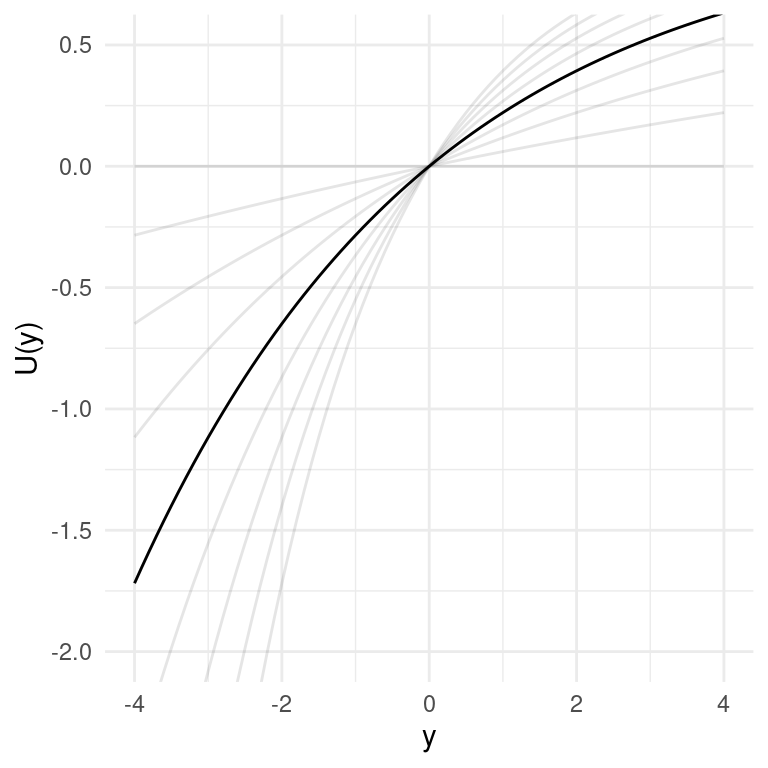
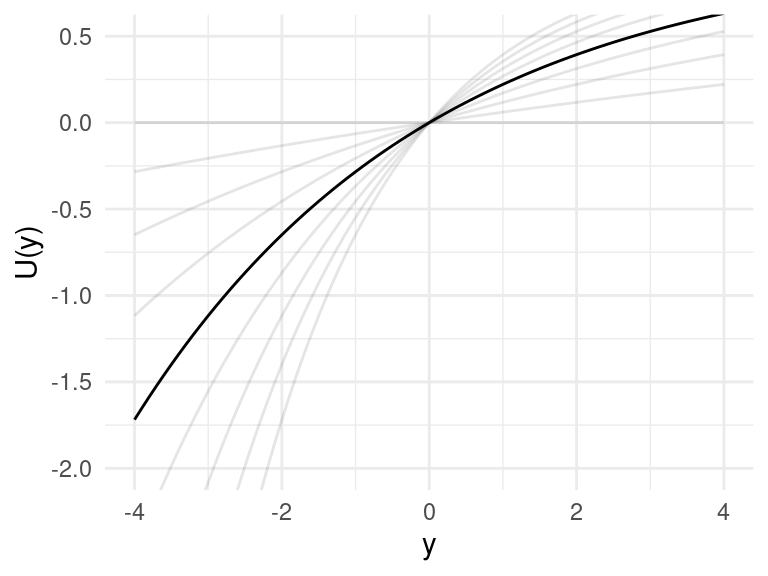
Fixing overlapping side notes.

diff --git a/docs/diagnose.html b/docs/diagnose.html
@@ -148,7 +148,7 @@ div.csl-indent {
 <li>Determining which programs to re-evaluate in order to incrementally improve the decision-making process for program selection (i), by updating information and adjusting funding allocations accordingly.</li>
 </ol>
 <p>By investigating and evaluating various decision-making policies within this framework, the study aims to contribute insights into how organizations can make more informed and effective funding decisions in the realm of Effective Altruism, with the ultimate goal of maximizing positive impact and optimizing resource allocation for charitable purposes.</p>
-<p>The problem is modeled as a sequence of decisions made at discrete intervals, given a finite set of programs with uncertain impact on a set of populations. The funder selects optimal programs to implement based on their beliefs about the counterfactual outcomes of these programs for their targeted populations, and decides what data to collect to update these beliefs for the next decision point. The environment and problem are intentionally kept simple to ensure tractability, with the understanding that further studies may revisit these assumptions iteratively.</p>
+<div class="page-columns page-full"><p>The problem is modeled as a sequence of decisions made at discrete intervals, given a finite set of programs with uncertain impact on a set of populations. The funder selects optimal programs to implement based on their beliefs about the counterfactual outcomes of these programs for their targeted populations, and decides what data to collect to update these beliefs for the next decision point. The environment and problem are intentionally kept simple to ensure tractability, with the understanding that further studies may revisit these assumptions iteratively.</p><div class="no-row-height column-margin column-container"><span class="">Focusing on epistemic uncertainty and ignoring moral uncertainty.</span></div></div>
 <div class="page-columns page-full"><p>The funder’s problem is modeled as a bandit problem, but without the restriction of only being able to evaluate implemented programs. Each program is assumed to target a particular population without any overlap, and the cost of implementation is held fixed and equal for all programs. There are no new programs entering the problem over time. The state of each program varies over time and is drawn from a hierarchical and stationary program hyperstate, which determines the data generating process for observed data when a program is evaluated.</p><div class="no-row-height column-margin column-container"><span class=""><em>State</em> here refers to the causal model determining outcome counterfactuals depending on whether a program is implemented or not. It is the data generating process from which we observed data when a program is evaluated.</span></div></div>
 <p>While the optimal method to select a program for implementation is a probabilistic one, taking into account the distribution of counterfactual quantities and any available prior information, I also consider the commonly used null hypothesis significance testing (NHST) approach.<a href="#fn1" class="footnote-ref" id="fnref1" role="doc-noteref"><sup>1</sup></a> However, my focus is not on comparing the probabilistic and NHST decision rules, but rather on the sequential nature of these decisions in the presence of heterogeneity in program effectiveness. I aim to examine the potential to improve welfare by enhancing the planning scheme used to select programs for re-evaluation, which I refer to as the <em>meta-problem</em>.</p>
 <p>My objective is not to identify the optimal policy, but rather to explore the potential for welfare improvement using alternative policies to those conventionally used. It’s important to note that I am simplifying these policies for tractability and not considering all their complexities and context-specific adjustments that expert decision-makers may introduce. Nevertheless, I believe this study captures the essence of how conventionally used policies may underperform in certain scenarios.</p>
@@ -190,18 +190,18 @@ div.csl-indent {
 </div>
 </div>
 <p>The funder is never aware of the true state of the world — the true counterfactual model of all programs’ effectiveness — but they are able to evaluate a program by collecting experimental data and updating their beliefs. I assume that the funder has an initial observation (data from an evaluation) for each program under consideration. This could be data from an earlier experiment or could represent the agent’s prior beliefs.</p>
-<div class="cell fig-cap-location-bottom page-columns page-full" data-hash="diagnose_cache/html/fig-utility-fig_effaf12ea5315783d3369e222a8c56e5">
+<div class="cell fig-cap-location-bottom page-columns page-full" data-hash="diagnose_cache/html/fig-utility-fig_8536ba9b123a1bf1d0a75cb7502ccbda">
 
 <div class="no-row-height column-margin column-container"><div class="cell-output-display">
 <div id="fig-utility-fig" class="quarto-figure quarto-figure-center anchored">
 <figure class="figure">
 <p><img src="diagnose_files/figure-html/fig-utility-fig-1.png" class="img-fluid figure-img" width="384"></p>
-<p></p><figcaption class="figure-caption">Figure&nbsp;2: The exponential utility function, <span class="math display">\[U(y;\alpha) = 1 - e^{- \alpha y},\]</span> where <span class="math inline">\(\alpha\)</span> represents the degree of risk aversion. In this study, we have <span class="math inline">\(\alpha = 0.25\)</span>.</figcaption><p></p>
+<p></p><figcaption class="figure-caption">Figure&nbsp;2: The exponential utility function, <span class="math inline">\(U(y;\alpha) = 1 - e^{- \alpha y},\)</span> where <span class="math inline">\(\alpha\)</span> represents the degree of risk aversion. In this study, we have <span class="math inline">\(\alpha = 0.25\)</span>.</figcaption><p></p>
 </figure>
 </div>
 </div></div></div>
 <p>Finally, in evaluating which program to implement the agent is assumed to be maximizing welfare measured using a <em>utility function</em>. The program outcomes mentioned above are in terms of an abstract quantity (e.g., income). A utility function means that there is a possibility of risk aversion and diminishing marginal utility: that it might be more optimal to increase the utility of those with a lower baseline utility (even if has relatively lower cost-effectiveness) or to implement programs with lower uncertainty. The utility function used is the <em>exponential utility</em> function.</p>
-<div class="page-columns page-full"><p>If there is uncertainty in the outcomes or there is variability in outcomes in the population, we would want to work with expected utilities. For example, given some means and standard deviations of outcomes over time, <span class="math inline">\(\mu_{kt} + z\cdot \tau_{kt}\)</span> and <span class="math inline">\(\sigma_k\)</span>, respectively, the expected utility would be as in <a href="#fig-state-util-example">Figure&nbsp;3</a>.</p><div class="no-row-height column-margin column-container"><span class="">Ignoring moral uncertainty.</span></div></div>
+<p>If there is uncertainty in the outcomes or there is variability in outcomes in the population, we would want to work with expected utilities. For example, given some means and standard deviations of outcomes over time, <span class="math inline">\(\mu_{kt} + z\cdot \tau_{kt}\)</span> and <span class="math inline">\(\sigma_k\)</span>, respectively, the expected utility would be as in <a href="#fig-state-util-example">Figure&nbsp;3</a>.</p>
 <div class="cell page-columns page-full" data-hash="diagnose_cache/html/fig-state-util-example_627ccd2afa5dda34ec5e6852095643ac">
 <div class="cell-output-display page-columns page-full">
 <div id="fig-state-util-example" class="quarto-figure quarto-figure-center anchored page-columns page-full">
@@ -621,7 +621,7 @@ The main goal of this simulation study is to analyze the sequential decision pro
 
 By investigating and evaluating various decision-making policies within this framework, the study aims to contribute insights into how organizations can make more informed and effective funding decisions in the realm of Effective Altruism, with the ultimate goal of maximizing positive impact and optimizing resource allocation for charitable purposes.
 
-The problem is modeled as a sequence of decisions made at discrete intervals, given a finite set of programs with uncertain impact on a set of populations. The funder selects optimal programs to implement based on their beliefs about the counterfactual outcomes of these programs for their targeted populations, and decides what data to collect to update these beliefs for the next decision point. The environment and problem are intentionally kept simple to ensure tractability, with the understanding that further studies may revisit these assumptions iteratively.
+The problem is modeled as a sequence of decisions made at discrete intervals, given a finite set of programs with uncertain[Focusing on epistemic uncertainty and ignoring moral uncertainty.]{.aside} impact on a set of populations. The funder selects optimal programs to implement based on their beliefs about the counterfactual outcomes of these programs for their targeted populations, and decides what data to collect to update these beliefs for the next decision point. The environment and problem are intentionally kept simple to ensure tractability, with the understanding that further studies may revisit these assumptions iteratively.
 
 The funder's problem is modeled as a bandit problem, but without the restriction of only being able to evaluate implemented programs. Each program is assumed to target a particular population without any overlap, and the cost of implementation is held fixed and equal for all programs. There are no new programs entering the problem over time. The state of each program varies over time and is drawn from a hierarchical and stationary program hyperstate, which determines the data generating process for observed data when a program is evaluated.[_State_ here refers to the causal model determining outcome counterfactuals depending on whether a program is implemented or not. It is the data generating process from which we observed data when a program is evaluated.]{.aside} 
 
@@ -709,10 +709,10 @@ quarto-executable-code-5450563D
 
 ```r
 #| label: fig-utility-fig
-#| fig-cap: The exponential utility function, $$U(y;\alpha) = 1 - e^{- \alpha y},$$ where $\alpha$ represents the degree of risk aversion. In this study, we have $\alpha = 0.25$.
+#| fig-cap: The exponential utility function, $U(y;\alpha) = 1 - e^{- \alpha y},$ where $\alpha$ represents the degree of risk aversion. In this study, we have $\alpha = 0.25$.
 #| fig-cap-location: bottom
 #| fig-width: 4
-#| fig-height: 4
+#| fig-height: 3
 #| column: margin
 
 utility &lt;- function(c, alpha) 1 - exp(-alpha * c)
@@ -729,7 +729,7 @@ crossing(a = seq(0, 0.5, 0.125/2), c = seq(-4, 4, 0.1)) |&gt;
 ``` 
 Finally, in evaluating which program to implement the agent is assumed to be maximizing welfare measured using a _utility function_. The program outcomes mentioned above are in terms of an abstract quantity (e.g., income). A utility function means that there is a possibility of risk aversion and diminishing marginal utility: that it might be more optimal to increase the utility of those with a lower baseline utility (even if has relatively lower cost-effectiveness) or to implement programs with lower uncertainty. The utility function used is the _exponential utility_ function.
 
-If there is uncertainty[Ignoring moral uncertainty.]{.aside} in the outcomes or there is variability in outcomes in the population, we would want to work with expected utilities. For example, given some means and standard deviations of outcomes over time, $\mu_{kt} + z\cdot \tau_{kt}$ and $\sigma_k$, respectively, the expected utility would be as in @fig-state-util-example. 
+If there is uncertainty in the outcomes or there is variability in outcomes in the population, we would want to work with expected utilities. For example, given some means and standard deviations of outcomes over time, $\mu_{kt} + z\cdot \tau_{kt}$ and $\sigma_k$, respectively, the expected utility would be as in @fig-state-util-example. 
 
 quarto-executable-code-5450563D
 
